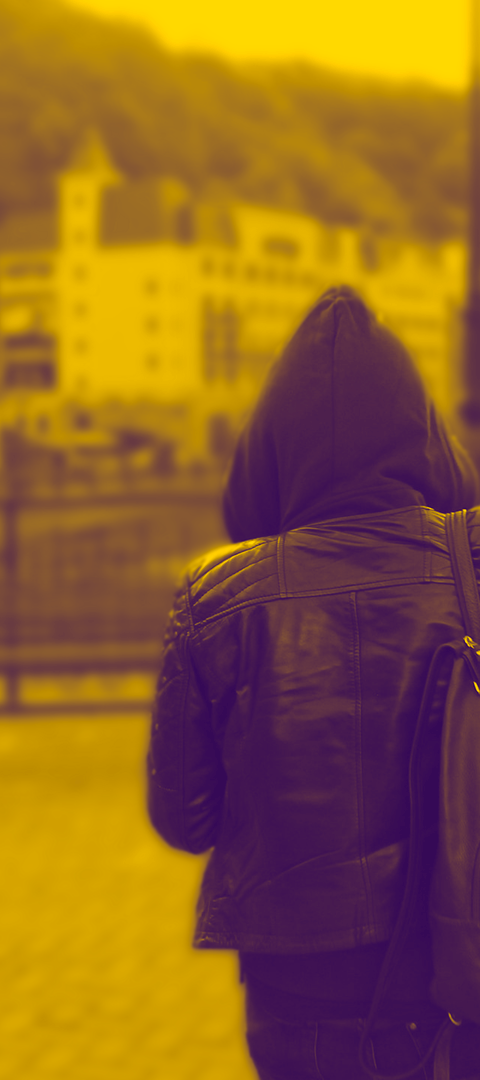
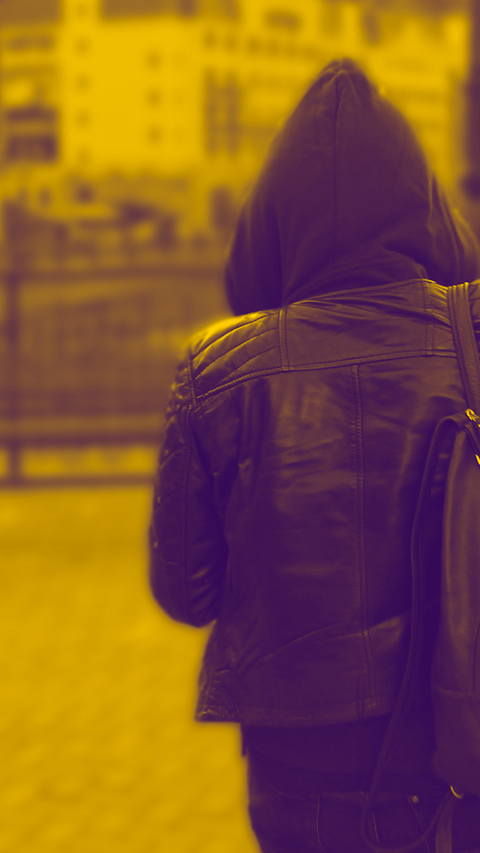
fix backgrounds in media request

diff --git a/index.html b/index.html
@@ -3,9 +3,12 @@
 
 <head>
 	<title>Marzet</title>
-	<meta charset="utf-8" />
+
+	<meta charset="utf-8">
 	<meta name="viewport" content="width=device-width, initial-scale=1" />
+	<meta http-equiv="x-ua-compatible" content="ie=edge">
 	<meta name="yandex-verification" content="015995ac5a4c2193" />
+	
 	<link rel="icon" type="image/png" href="img/favicon.png">
 	<link rel="apple-touch-icon" href="img/favicon.png">
 	<link rel="shortcut icon" type="image/png" href="img/favicon.png">

diff --git a/css/main.css b/css/main.css
@@ -153,3 +153,25 @@ body::-webkit-scrollbar-thumb {
 		font-size: 4vw;
 	}
 }
+
+@media screen and (max-width: 320px) {
+
+	h1 {
+		margin: 0;
+		padding-left: 10%;
+	}
+
+	header {
+		background-image: url("../img/main-320px.png");
+		font-size: 5vw;
+	}
+
+	main {
+		font-size: 4vw;
+	}
+
+	footer {
+		height: 100vh;
+		font-size: 4vw;
+	}
+}
